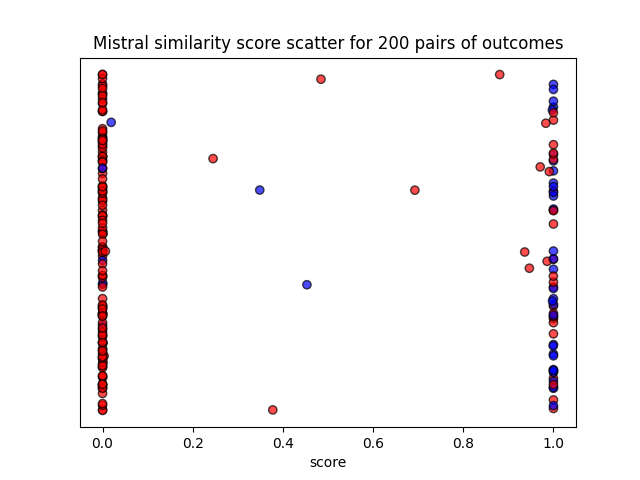
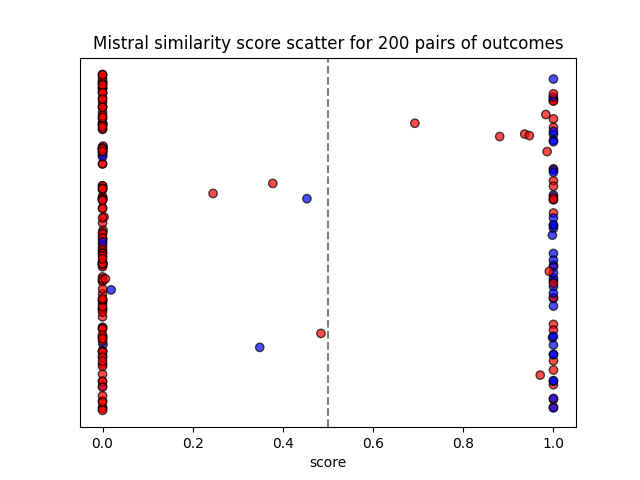
Model thresholds

diff --git a/src/utils/model_evaluator.py b/src/utils/model_evaluator.py
@@ -1,7 +1,8 @@
 import os
+import numpy as np
 from time import time
 from tqdm import tqdm
-from sklearn.metrics import accuracy_score, precision_score, recall_score, f1_score, roc_auc_score
+from sklearn.metrics import accuracy_score, precision_score, recall_score, f1_score, roc_auc_score, confusion_matrix
 
 
 class ModelEvaluator:
@@ -31,11 +32,28 @@ class ModelEvaluator:
             out_dir = os.path.dirname(self.out_file)
             if not os.path.exists(out_dir):
                 os.makedirs(out_dir)
+
             self.data['score'] = self.scores
             self.data.to_csv(self.out_file, sep='\t', index=False)
 
+            print('Model scores saved to ' + self.out_file)
+
     def get_metrics(self):
         labels = self.data['label']
+        # fpr, tpr, thresholds = roc_curve(labels, self.scores)
+        # j = tpr - fpr
+        # j_threshold = thresholds[j.argmax()]
+
+        threshold_step = 0.1
+        thresholds = np.arange(0.1, 1, threshold_step)
+        j = []
+        for threshold in thresholds:
+            threshold_predictions = np.where(np.array(self.scores) >= threshold, 1, 0)
+            tn, fp, fn, tp = confusion_matrix(labels, threshold_predictions).ravel()
+            fpr = fp / (fp + tn)
+            tpr = tp / (tp + fn)
+            j.append(tpr - fpr)
+        j_threshold = thresholds[np.argmax(j)]
 
         metrics = {
             'negative_ratio': self.predictions.count(0) / self.n_rows,
@@ -45,6 +63,7 @@ class ModelEvaluator:
             'recall_score': recall_score(labels, self.predictions),
             'f1_score': f1_score(labels, self.predictions),
             'auc_score': roc_auc_score(labels, self.scores),
-            'evaluation_time': self.evaluation_time
+            'evaluation_time': self.evaluation_time,
+            'j_threshold': j_threshold,
         }
         return metrics

diff --git a/src/models/language_models.py b/src/models/language_models.py
@@ -56,7 +56,7 @@ class OlmoText:
 
 
 class OlmoProbability:
-    def __init__(self, template, threshold=0.5):
+    def __init__(self, template, threshold=0.1):
         self.model = Olmo()
         self.template = template
         self.threshold = threshold
@@ -120,7 +120,7 @@ class MistralText:
 
 
 class MistralProbability:
-    def __init__(self, template, threshold=0.5):
+    def __init__(self, template, threshold=0.8):
         self.model = Mistral()
         self.template = template
         self.threshold = threshold
@@ -184,7 +184,7 @@ class BioText:
 
 
 class BioProbability:
-    def __init__(self, template, threshold=0.5):
+    def __init__(self, template, threshold=0.2):
         self.model = Bio()
         self.template = template
         self.threshold = threshold
@@ -268,7 +268,7 @@ class LlamaText:
 
 
 class LlamaProbability:
-    def __init__(self, template, threshold=0.5):
+    def __init__(self, template, threshold=0.1):
         self.model = Llama()
         self.template = template
         self.threshold = threshold

diff --git a/src/models/base_models.py b/src/models/base_models.py
@@ -23,7 +23,7 @@ class Constant:
 
 
 class Random:
-    def __init__(self, threshold=0.5):
+    def __init__(self, threshold=0.1):
         self.threshold = threshold
 
     def predict(self, out1, out2):
@@ -34,8 +34,9 @@ class Random:
 
 # Lexical models
 class Lemmas:
-    def __init__(self, threshold=0.5):
+    def __init__(self, threshold=0.3):
         self.threshold = threshold
+        nltk.download('wordnet')
         self.model = WordNetLemmatizer()
 
     def get_set(self, sentence):
@@ -52,7 +53,7 @@ class Lemmas:
 
 
 class Stems:
-    def __init__(self, threshold=0.5):
+    def __init__(self, threshold=0.3):
         self.threshold = threshold
         nltk.download('wordnet')
         self.model = PorterStemmer()

diff --git a/src/run_experiment.py b/src/run_experiment.py
@@ -7,11 +7,11 @@ from src.models.language_models import *
 from src.models.prompt_templates import *
 
 load_dotenv()
-OUT_FILE = ''
+OUT_FILE = '../data/out/llama/definition.tsv'
 DATA_FILE = '../data/outcome_similarity/val.tsv'
 
 # TODO Evaluate models
-EXPERIMENT_MODEL = OlmoProbability(role_template)
+EXPERIMENT_MODEL = LlamaProbability(role_template)
 EXPERIMENT_NAME = ''
 
 

diff --git a/src/plot/plot_scores.py b/src/plot/plot_scores.py
@@ -16,6 +16,7 @@ positions = np.random.uniform(0, 1, n_rows)
 
 plt.figure()
 plt.scatter(scores, positions, c=colors, edgecolors='black', alpha=0.7)
+# plt.axvline(x=0.5, color='gray', linestyle='--')
 plt.yticks([])
 plt.xlabel('score')
 plt.title(MODEL_NAME + ' similarity score scatter for ' + str(n_rows) + ' pairs of outcomes')

diff --git a/readme.md b/readme.md
@@ -182,14 +182,14 @@ Answer:
 |--------------------------------------|-----------|
 | Constant classifier                  | 0.500     |
 | Random classifier                    | 0.417     |
-| Lemmas classifier                    | 0.831     |
-| **Stems classifier**                 | **0.871** |
-| Levenshtein classifier               | 0.801     |
-| Sequence classifier                  | 0.850     |
-| Spacy classifier                     | 0.711     |
-| Word2Vec classifier                  | 0.814     |
-| SciBERT classifier                   | 0.782     |
-| **Sentence transformers classifier** | **0.884** |
+| Lemmas similarity                    | 0.831     |
+| **Stems similarity**                 | **0.871** |
+| Levenshtein distance                 | 0.801     |
+| Sequence similarity                  | 0.850     |
+| Spacy embeddings                     | 0.711     |
+| Word2Vec embeddings                  | 0.814     |
+| SciBERT embeddings                   | 0.782     |
+| **Sentence transformers embeddings** | **0.884** |
 
 ### Large language models
 
@@ -234,6 +234,19 @@ Key takeaways:
     <img src='docs/outcome_similarity/llama_confusion.png' alt='distribution2' style='width: 45%;'>
 </div>
 
+> **Note**: Model bias is corrected by adjusting the threshold based on Youdens J statistic.
+
+### Final
+
+| Model                            | Accuracy  | F1 score  |
+|----------------------------------|-----------|-----------|
+| Stems similarity                 | 0.830     | 0.691     |
+| Sentence transformers embeddings | 0.875     | 0.706     |
+| **Olmo role prompt**             | 0.870     | **0.723** |
+| Mistral role prompt              | 0.810     | 0.642     |
+| BioMistral role prompt           | 0.840     | 0.673     |
+| **Llama role prompt**            | **0.880** | 0.692     |
+
 
 ## References
 
@@ -246,3 +259,5 @@ Key takeaways:
 - [Analyzing Spin in Abstracts of Orthopaedic Randomized Controlled Trials With Statistically Insignificant Primary Endpoints](https://www.sciencedirect.com/science/article/pii/S0749806320300384?casa_token=646vq-iv8coAAAAA:oVcdcHfVD1GqLqt68JN8XucIxGzKpOyq03dT8xG1sgAV6GIRQgVEQFmyd4O4r5JXHz8ZCenAoQWW)
 - [BioMistral: A Collection of Open-Source Pretrained Large Language Models for Medical Domains](https://arxiv.org/abs/2402.10373)
 - [COMPare: A prospective cohort study correcting and monitoring 58 misreported trials in real time](https://link.springer.com/article/10.1186/s13063-019-3173-2)
+- [Outcome switching](https://en.wikipedia.org/wiki/Outcome_switching)
+- [Youden's J statistic](https://en.wikipedia.org/wiki/Youden%27s_J_statistic)
